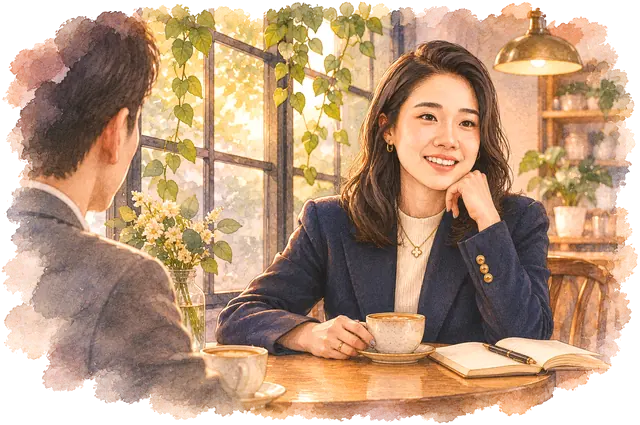
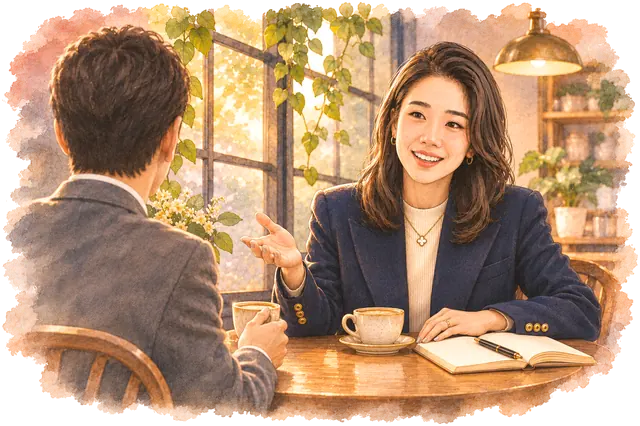
Design 05: topic cards under 'What I can help you with', cafe painting redrawn
The four topic pictures become four cards (picture and her heading) that the
crossing headline settles over; each card links to its section. The cafe
painting in 'Let's talk' is redrawn so she faces the client (5-cafe-v2); the
second video placeholder is re-cut from it. Topic pictures exported a little
larger for the cards. Adds a proposed money-tree still to the art folder
(not on the page).

Claude-Session: https://claude.ai/code/session_013Ks4Z24KHXap98DgVjvA55

diff --git a/previews/05-story.html b/previews/05-story.html
@@ -184,18 +184,29 @@ h1, h2, h3 { font-weight: 400; }
 .panel-hint { display: none; text-align: center; }
 .motion .panel-hint { display: block; opacity: var(--lo, 1); }
 
-/* What I can help you with: a headline that crosses the screen ------------------------- */
+/* What I can help you with: a headline that crosses the screen, then four cards that lead to her four topics */
 .help .stage__in { display: flex; flex-direction: column; justify-content: center; text-align: center; }
 .big { font-family: var(--f-display); font-size: clamp(2.6rem, 1.6rem + 4vw, 5rem); line-height: 1; text-wrap: balance; }
-.motion .big { font-size: clamp(4.2rem, 1.6rem + 12vw, 14rem); white-space: nowrap; text-align: left; transform-origin: 0 50%; will-change: transform; width: max-content; }
+/* --pull is the empty space the scaled-down headline would leave above and below itself; negative margins take it back. */
+.motion .big { font-size: clamp(4.2rem, 1.6rem + 12vw, 14rem); white-space: nowrap; text-align: left; transform-origin: 0 50%; will-change: transform; width: max-content; margin-block: calc(var(--pull, 0px) * -1); }
 .help__sub { font-size: 1.5rem; margin-top: 18px; }
-.help__row { display: flex; justify-content: center; flex-wrap: wrap; gap: clamp(14px, 3vw, 36px); margin-top: 26px; list-style: none; padding: 0; }
-.help__row img { width: clamp(72px, 9vw, 124px); aspect-ratio: 1 / 1; object-fit: contain; }
-.motion .help__sub, .motion .help__row li { opacity: 0; transform: translateY(14px); transition: opacity .6s ease, transform .6s var(--ease); }
-.motion .help.is-late .help__sub, .motion .help.is-late .help__row li { opacity: 1; transform: none; }
-.motion .help.is-late .help__row li:nth-child(2) { transition-delay: .08s; }
-.motion .help.is-late .help__row li:nth-child(3) { transition-delay: .16s; }
-.motion .help.is-late .help__row li:nth-child(4) { transition-delay: .24s; }
+.help__cards { display: grid; grid-template-columns: repeat(4, minmax(0, 1fr)); gap: clamp(12px, 2vw, 26px); width: 100%; max-width: 1060px; margin: clamp(22px, 4.5vh, 44px) auto 0; padding: 0; list-style: none; }
+.help__card { display: flex; flex-direction: column; height: 100%; padding: 10px 10px 16px; background: var(--card); box-shadow: var(--shadow-card); color: inherit; text-decoration: none; text-align: left; transition: transform .5s var(--ease), rotate .5s var(--ease), box-shadow .5s ease; }
+.help__cards li:nth-child(odd) .help__card { rotate: -1.3deg; }
+.help__cards li:nth-child(even) .help__card { rotate: 1.1deg; }
+.help__card:hover, .help__card:focus-visible { transform: translateY(-8px); rotate: 0deg; box-shadow: 0 2px 3px #28190a2e, 0 26px 40px -18px #28190a8c; }
+.help__win { display: grid; place-items: center; aspect-ratio: 5 / 4; overflow: hidden; background: radial-gradient(120% 90% at 50% 40%, #f8efdf 0%, #eedcc0 100%); }
+.help__win img { width: 76%; height: 80%; object-fit: contain; transition: transform .7s var(--ease); }
+.help__card:hover .help__win img, .help__card:focus-visible .help__win img { transform: scale(1.07); }
+.help__name { display: flex; align-items: flex-end; justify-content: space-between; gap: 10px; flex: 1; margin-top: 14px; padding: 0 4px; font: 400 clamp(1.2rem, .9rem + .75vw, 1.6rem)/1.1 var(--f-display); text-wrap: balance; }
+.help__name::after { content: "↓"; flex: none; font: 400 1rem/1.3 var(--f-body); color: var(--seal); transition: transform .4s var(--ease); }
+.help__card:hover .help__name::after { transform: translateY(4px); }
+.motion .help__sub, .motion .help__cards li { opacity: 0; transform: translateY(26px); transition: opacity .6s ease, transform .7s var(--ease); }
+.motion .help.is-late .help__sub, .motion .help.is-late .help__cards li { opacity: 1; transform: none; }
+.motion .help.is-late .help__cards li:nth-child(1) { transition-delay: .1s; }
+.motion .help.is-late .help__cards li:nth-child(2) { transition-delay: .18s; }
+.motion .help.is-late .help__cards li:nth-child(3) { transition-delay: .26s; }
+.motion .help.is-late .help__cards li:nth-child(4) { transition-delay: .34s; }
 
 /* Topic sections share one layout: words left, a scene right -------------------------- */
 .topic .stage__in { display: grid; grid-template-columns: minmax(0, .86fr) minmax(0, 1.14fr); gap: clamp(28px, 4vw, 64px); align-items: center; }
@@ -374,6 +385,11 @@ address { font-style: normal; }
   .prio img { width: 60px; }
   .prio span { display: none; }
   .motion .scene { width: min(100%, 40vh); width: min(100%, 40svh); }
+  .help__sub { font-size: 1.2rem; margin-top: 12px; }
+  .help__cards { grid-template-columns: repeat(2, minmax(0, 1fr)); gap: 12px; margin-top: 18px; }
+  .help__card { padding: 8px 8px 12px; }
+  .help__win { aspect-ratio: 3 / 2; }
+  .help__name { margin-top: 10px; font-size: 1.08rem; }
   .topic .stage__in { gap: 14px; }
   .topic__title { margin-bottom: 8px; }
   .motion .pour { margin-top: 14px; }
@@ -462,10 +478,10 @@ address { font-style: normal; }
           <img loading="lazy" decoding="async" class="tape" src="kit/wc/tape-blue.webp" alt="" width="280" height="78">
         </figure>
         <ul class="prio" aria-hidden="true">
-          <li><img loading="lazy" decoding="async" src="kit/wc2/umbrella.webp" alt="" width="260" height="244"><span>Protecting what matters</span></li>
-          <li><img loading="lazy" decoding="async" src="kit/wc2/sprout.webp" alt="" width="306" height="320"><span>Growing your wealth</span></li>
+          <li><img loading="lazy" decoding="async" src="kit/wc2/umbrella.webp" alt="" width="400" height="375"><span>Protecting what matters</span></li>
+          <li><img loading="lazy" decoding="async" src="kit/wc2/sprout.webp" alt="" width="383" height="400"><span>Growing your wealth</span></li>
           <li><img loading="lazy" decoding="async" src="kit/wc2/house.webp" alt="" width="560" height="492"><span>Planning around life’s milestones</span></li>
-          <li><img loading="lazy" decoding="async" src="kit/wc2/sunset.webp" alt="" width="320" height="262"><span>Planning for later life</span></li>
+          <li><img loading="lazy" decoding="async" src="kit/wc2/sunset.webp" alt="" width="400" height="328"><span>Planning for later life</span></li>
         </ul>
       </div>
       <p class="cue note" aria-hidden="true">keep scrolling ↓</p>
@@ -492,17 +508,17 @@ address { font-style: normal; }
     </div>
   </section>
 
-  <!-- What I can help you with: the headline crosses the screen, then settles -->
-  <section class="beat help" id="help" data-beat="help" style="--len: 1.8" data-chapter="What I can help you with">
+  <!-- What I can help you with: the headline crosses the screen, then settles over four cards that link to her four topics -->
+  <section class="beat help" id="help" data-beat="help" style="--len: 2.4" data-chapter="What I can help you with">
     <div class="stage">
       <div class="stage__in">
         <h2 class="big">What I can help you with</h2>
         <p class="note help__sub">Planning for what matters at every stage.</p>
-        <ul class="help__row" aria-hidden="true">
-          <li><img loading="lazy" decoding="async" src="kit/wc2/umbrella.webp" alt="" width="260" height="244"></li>
-          <li><img loading="lazy" decoding="async" src="kit/wc2/sprout.webp" alt="" width="306" height="320"></li>
-          <li><img loading="lazy" decoding="async" src="kit/wc2/house.webp" alt="" width="560" height="492"></li>
-          <li><img loading="lazy" decoding="async" src="kit/wc2/sunset.webp" alt="" width="320" height="262"></li>
+        <ul class="help__cards">
+          <li><a class="help__card" href="#protect"><span class="help__win"><img loading="lazy" decoding="async" src="kit/wc2/umbrella.webp" alt="" width="400" height="375"></span><span class="help__name">Protecting what matters</span></a></li>
+          <li><a class="help__card" href="#grow"><span class="help__win"><img loading="lazy" decoding="async" src="kit/wc2/sprout.webp" alt="" width="383" height="400"></span><span class="help__name">Growing your wealth</span></a></li>
+          <li><a class="help__card" href="#milestones"><span class="help__win"><img loading="lazy" decoding="async" src="kit/wc2/house.webp" alt="" width="560" height="492"></span><span class="help__name">Planning around life’s milestones</span></a></li>
+          <li><a class="help__card" href="#later"><span class="help__win"><img loading="lazy" decoding="async" src="kit/wc2/sunset.webp" alt="" width="400" height="328"></span><span class="help__name">Planning for later life</span></a></li>
         </ul>
       </div>
     </div>
@@ -641,7 +657,7 @@ address { font-style: normal; }
     <div class="wrap talk__grid">
       <div class="talk__art">
         <figure class="card talk__card">
-          <img loading="lazy" decoding="async" src="kit/wc2/cafe.webp" srcset="kit/wc2/cafe-640.webp 640w, kit/wc2/cafe.webp 1000w" sizes="(max-width: 900px) 84vw, 480px" alt="Carine in conversation with a client over coffee, in a watercolour painting" width="1000" height="664">
+          <img loading="lazy" decoding="async" src="kit/wc2/cafe.webp" srcset="kit/wc2/cafe-640.webp 640w, kit/wc2/cafe.webp 1000w" sizes="(max-width: 900px) 84vw, 480px" alt="Carine in conversation with a client over coffee, in a watercolour painting" width="1000" height="666">
         </figure>
       </div>
       <div>
@@ -787,17 +803,20 @@ address { font-style: normal; }
     handlers.clarity.layout = setLens;
   })();
 
-  /* What I can help you with: the crossing headline ----------------------------------- */
+  /* What I can help you with: the headline crosses, settles small, and the four cards rise ---- */
   (function () {
     var b = $('#help'), big = $('.big', b), inner = $('.stage__in', b);
     handlers.help = function (p) {
-      var vw = inner.clientWidth, w = big.scrollWidth;
-      var fit = Math.min(1, (vw * .96) / w);
+      var vw = inner.clientWidth, w = big.scrollWidth, h = big.offsetHeight;
+      var fit = Math.min(1, Math.min(vw * .96, 820) / w);
+      b.style.setProperty('--pull', ((1 - fit) * h / 2).toFixed(1) + 'px');
+      // While it crosses, the headline rides in the middle of the screen; then it settles into its place above the cards.
+      var mid = inner.clientHeight / 2 - (big.offsetTop + h / 2);
       var x0 = vw * .55, x1 = Math.min(0, vw - w), x2 = (vw - w * fit) / 2;
-      var a = ramp(p, 0, .55), c = ramp(p, .55, .82);
+      var a = ramp(p, 0, .42), c = ramp(p, .42, .6);
       var x = c > 0 ? lerp(x1, x2, c) : lerp(x0, x1, a);
-      big.style.transform = 'translateX(' + x.toFixed(1) + 'px) scale(' + lerp(1, fit, c).toFixed(3) + ')';
-      b.classList.toggle('is-late', p > .7);
+      big.style.transform = 'translate(' + x.toFixed(1) + 'px,' + lerp(mid, 0, c).toFixed(1) + 'px) scale(' + lerp(1, fit, c).toFixed(3) + ')';
+      b.classList.toggle('is-late', p > .56);
     };
   })();
 

diff --git a/previews/art/prep.py b/previews/art/prep.py
@@ -116,7 +116,7 @@ for name, cell in zip(['umbrella', 'sprout', 'house', 'sunset'], cells(load('7-i
     t = trim(scene(cell, feather=10, holes=120) if name == 'house' else unmultiply(cell))
     if name == 'umbrella':
         save(t, 'umbrella-full', cap=560)  # the source for umbrella-air below; not used by the page
-    save(t, name, cap={'house': 560, 'umbrella': 260}.get(name, 320))
+    save(t, name, cap={'house': 560}.get(name, 400))
 
 # The umbrella again without its ground shadow, for where it is held up over the home
 u = np.asarray(Image.open(os.path.join(out, 'umbrella-full.webp')).convert('RGBA')).astype(np.float32)
@@ -164,7 +164,7 @@ report['grow/ (%d frames)' % FRAMES] = {'w': SIDE, 'h': SIDE, 'kb': round(film_k
 save(trim(unmultiply(load('9-plant-endframe.png'))), 'plant', cap=640)
 
 # 4, 5: scenes keep their own soft edge; white becomes paper
-later, cafe = trim(scene(load('4-later-life.png')), pad=4), trim(scene(load('5-cafe.png')), pad=4)
+later, cafe = trim(scene(load('4-later-life.png')), pad=4), trim(scene(load('5-cafe-v2.png')), pad=4)
 save(later, 'later', cap=1400, q=74)
 save(later, 'later-800', cap=800, q=74)
 save(cafe, 'cafe', cap=1000, q=76)
@@ -194,7 +194,7 @@ crop_to(clarity, BOX8, (480, 300), q=60, name='clarity-muddle', blur=9, fog=0.34
 
 # Video placeholders: 16:10 crops of 4, 5, 8 and the tree (on paper)
 crop_to(load('4-later-life.png'), json.loads(os.environ.get('BOXV1', '[330, 190, 1290, 790]')), (640, 400), name='v1', q=76)
-crop_to(load('5-cafe.png'), json.loads(os.environ.get('BOXV2', '[520, 75, 1450, 656]')), (640, 400), name='v2', q=76)
+crop_to(load('5-cafe-v2.png'), json.loads(os.environ.get('BOXV2', '[230, 80, 1430, 830]')), (640, 400), name='v2', q=76)
 crop_to(clarity, json.loads(os.environ.get('BOXV3', '[330, 300, 1290, 900]')), (640, 400), name='v3', q=76)
 tree = Image.fromarray(trim(unmultiply(load('1-tree.png')), pad=40), 'RGBA')
 bg = Image.new('RGB', (1120, 700), (246, 236, 216))

diff --git a/STORYBOARD.md b/STORYBOARD.md
@@ -55,7 +55,7 @@ Carine's portrait, replacing the stickers that were painted in code; see "Second
 | 1 | Hero | Financial planning for every stage of life. | Words that resolve | The headline sharpens word by word; the polaroid drops in and is taped | – | 1 screen |
 | 2 | As life changes | Hero paragraph 1 | Frame as window | One polaroid frame holds her portrait, then a graduation cap, rings, a key, baby shoes, reading glasses; the four topic pictures grow and shrink as priorities shift | – | 4.2 |
 | 3 | Greater clarity | Hero paragraph 2 | A lens | A landscape with one path through it starts as a blur; a clear patch shows the same painting in focus, then the whole of it clears | Move the lens | 3 |
-| 4 | What I can help you with | Heading and line | Kinetic headline | The heading crosses the screen huge, then settles with the line and the four topic pictures | – | 1.8 |
+| 4 | What I can help you with | Heading and line | Kinetic headline, then a contents row | The heading crosses the screen huge, then settles small over four cards, one per topic (picture and her heading); each card jumps to its section | – (the cards are links) | 2.4 |
 | 5 | Protecting what matters | Topic 1 | Whole-screen mood | The paper greys, rain falls, the umbrella swings up over the home; the home stays dry | Tap to make it pour | 2.8 |
 | 6 | Growing your wealth | Topic 2 | Transformation | A seedling grows into a full-grown leafy plant, one frame of a painted clip per step of scroll | – | 2.8 |
 | 7 | Life's milestones | Topic 3 | Sideways filmstrip | Polaroids slide past: marriage, a home, children, other major changes | – | 3 |
@@ -102,6 +102,8 @@ For Carine and compliance to approve or replace. Everything else is Rebecca's v1
 - **The café painting in "Let's talk" (second art pass).** It is an AI-made painting of Carine, drawn from her own
   portrait, talking with a client who is seen only from behind (no face). The same painting is cropped for the
   second video placeholder. **Carine is fine with her likeness being used here** (confirmed by MJ, 19 Nov 2026).
+  The painting was redrawn later that day (`5-cafe-v2`) so that she faces the client and is plainly in conversation;
+  show her the new one.
   This link is a staging site, not production; raise it again with her compliance team before production.
 - **The couple in "Planning for later life"** are seen from behind, with no faces, and stand for no real client.
 - **The priority pictures in section 2** resize per life stage to show "different financial priorities". They illustrate the sentence; they are not advice. Compliance should confirm they are comfortable with it.
@@ -119,9 +121,9 @@ the art pass is in the last column.
 
 | | Phone target | Measured | Before the art pass |
 |---|---|---|---|
-| Before the first screen is usable | 1.5 MB | 658 KB | 548 KB |
-| Whole page, phone (390 × 844) | 8 MB | 1.5 MB (1,488 KB) | 920 KB |
-| Whole page, laptop (1440 × 900) | 20 MB | 1.6 MB (1,646 KB) | 920 KB |
+| Before the first screen is usable | 1.5 MB | 701 KB | 548 KB |
+| Whole page, phone (390 × 844) | 8 MB | 1.5 MB (1,523 KB) | 920 KB |
+| Whole page, laptop (1440 × 900) | 20 MB | 1.7 MB (1,681 KB) | 920 KB |
 | Script | 350 KB | about 15 KB inline, no libraries | 14 KB |
 
 On the staging link (GitHub Pages) on 19 Nov 2026, in Chrome at 1654 × 928 on a 2x screen, as transferred and with
@@ -158,7 +160,8 @@ Google Flow (Frames to Video, 16:9, 720p, **Omni 1.2 Flash**, seedling as the st
 as the end frame). The prompts are in `previews/art/ART-BRIEF-05.md`.
 
 - **Originals:** `previews/art/gen/` (`1-tree` to `8-clarity`, `9-growth.mp4`, `9-plant-endframe.png`). Never
-  overwritten; a correction gets `-v2`.
+  overwritten; a correction gets `-v2` (`5-cafe-v2` is the café painting on the page). `10-money-tree.png` is a
+  proposed new end for the growth clip (a braided money tree, leaves only); not on the page yet.
 - **Export:** from `previews/art`, `python3 -I prep.py gen ../kit/wc2 gen-sheet.jpg` (Pillow, NumPy, SciPy and
   ffmpeg). It turns white into transparency without a threshold, so soft edges and shadows survive; cuts the
   object and topic grids apart on their white gaps; keeps the scenes solid in the middle and soft at the edge; makes
@@ -177,7 +180,7 @@ Tested on 19 Nov 2026 in headless Chromium against a local copy: a frame-by-fram
 1440 × 900, 390 × 844 and 320 × 640 with no horizontal scrolling, no script errors and no failed requests; all four
 interactions at laptop and phone size (the lens with a mouse, a tap and a finger drag; pour, with nothing landing
 under the umbrella; the video row by arrows and by swipe; the note, with and without text, opening the right
-WhatsApp link); the reduced-motion page and the page with JavaScript off; and every line of the v1 copy, link,
+WhatsApp link); each of the four topic cards jumping to its section; the reduced-motion page and the page with JavaScript off; and every line of the v1 copy, link,
 phone number and address unchanged from before the art pass. After the push, the staging link was opened in Chrome
 (1654 × 928) and scrolled end to end: no failed requests, no broken pictures, no console errors, no sideways scroll,
 and the growth clip played; it was also opened at 500 px wide in a second browser.

diff --git a/previews/art/ART-BRIEF-05.md b/previews/art/ART-BRIEF-05.md
@@ -167,6 +167,20 @@ zoom, no pan, no cuts. The background stays pure white throughout. Nothing appea
 stump, no trunk, no bare branches, no falling leaves, no soil flying. No text. No sound.
 ```
 
+**Image 5 again (`5-cafe-v2`, 19 Nov 2026).** In the first painting she looked out at the viewer, so it did not read as
+a conversation. The correction, sent in the same chat:
+
+```
+Go back to the café painting (the woman from the reference portrait at the round wooden table with a client). Same
+picture, same café, same style and soft watercolour edges, landscape 3:2, but make it clearly a conversation between
+the two of them: she is turned towards the client and looking at the client, not at us, mid-conversation with a warm,
+attentive expression, one hand open in a small natural gesture as she explains something, the other resting by her
+coffee cup and the open notebook. The client sits nearer the middle-left, still seen only from behind (back of the
+head and shoulders, no face, no profile), leaning in slightly, one hand around their own cup. Nobody looks out of the
+picture. She is still recognisably the same person: same face, shoulder-length dark wavy hair, navy blazer over a
+cream knit top, small gold clover necklace. No screens, no signage, no writing.
+```
+
 Both frames were cropped to 16:9 with the grass patch at the same spot before upload. Flow added a sound track
 anyway; `9-growth.mp4` is the muted copy.
 
